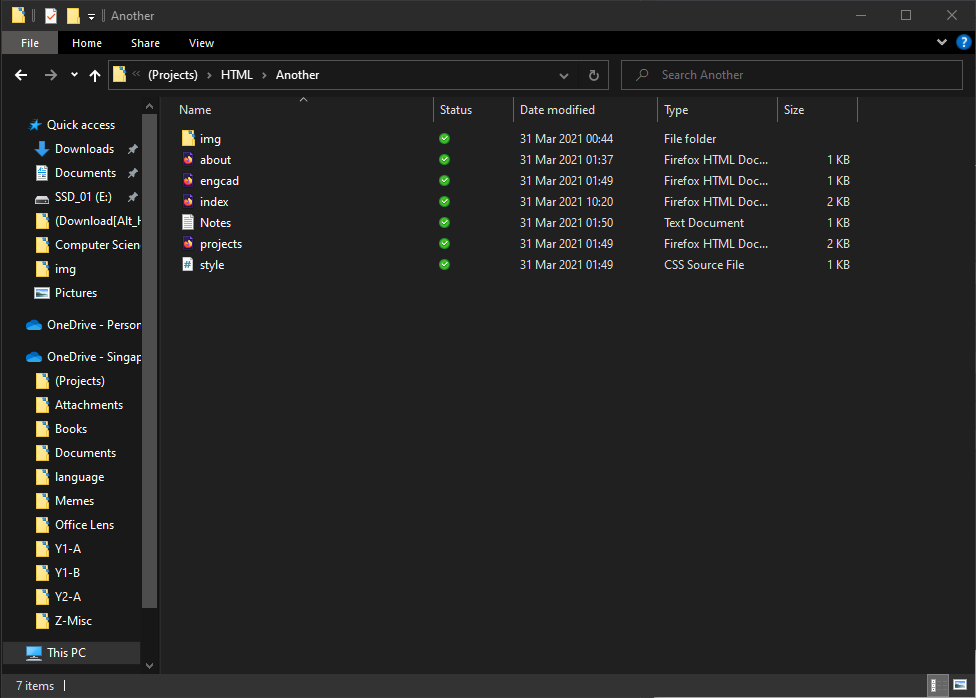
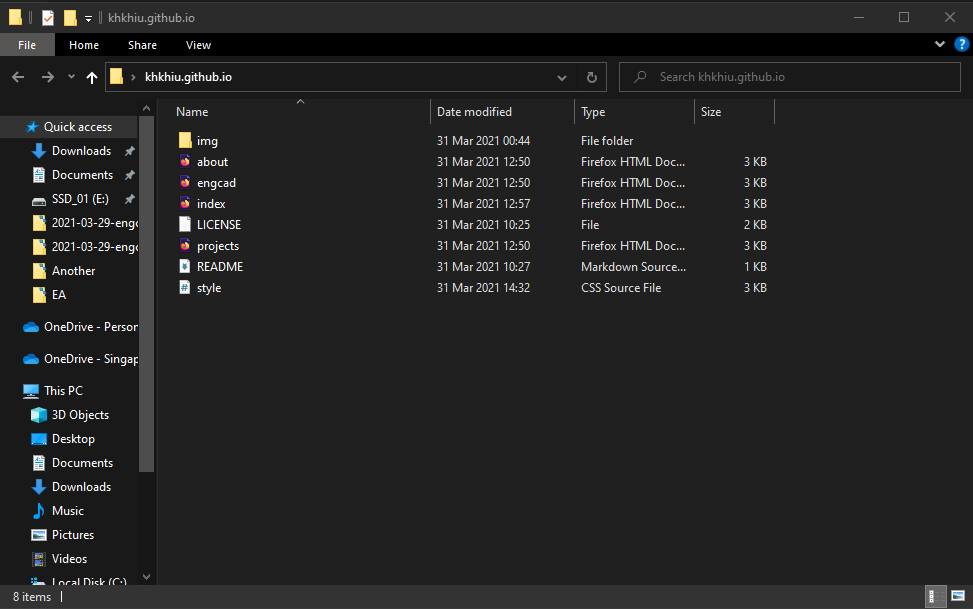
updated html post

Changed region(s): [[0.0, 0.0, 1.0, 0.9984], [0.6475, 0.9672, 1.0, 1.0], [0.8325, 0.2184, 0.8941, 0.4056]]

diff --git a/_posts/2021-03-29-engcad-github-pages.md b/_posts/2021-03-29-engcad-github-pages.md
@@ -42,9 +42,13 @@ Implementation with HTML
 
 After watching the videos, I started by creating a Repository in Github. I used the name 'khkhiu.github.io', set to public to create it as a github pages repo. I then pulled the repo onto my computer using GitHub Desktop  
 
-| ![create_repo](/assets/images/2021-03-29-engcad-github-pages/Create_repo.png)<em>creating the repo</em> | ![Git_init](/assets/images/2021-03-29-engcad-github-pages/Github_init.png) <em>initialising repo</em> |
+| ![create repo](/assets/images/2021-03-29-engcad-github-pages/Create_repo.png)<em>creating the repo</em> | ![Git init](/assets/images/2021-03-29-engcad-github-pages/Github_init.png) <em>initialising repo</em> |
 
-Next, 
+| ![update read me](/assets/images/2021-03-29-engcad-github-pages/Vscode-Readme.png)<em>Updating the README file</em> | ![Git_init](/assets/images/2021-03-29-engcad-github-pages/Github_1st_commit.png) <em>1st commit to git hub</em> |
+
+Next, I created the following files. An index.html file to act as a landing page, an about.html page for basic information about me, an engcad.html page for school based projects and a personal.html page for personal projects. A styles.css page was also created to manage the CSS and an 'img' folder to contain images. The file were then pushed to github.
+
+| ![local machine](/assets/images/2021-03-29-engcad-github-pages/Local_machine.png)<em>Local machine folder</em> | ![site uploaded](/assets/images/2021-03-29-engcad-github-pages/Update_github.png)<em>personal website taking shape</em> |
 
 
 ***
